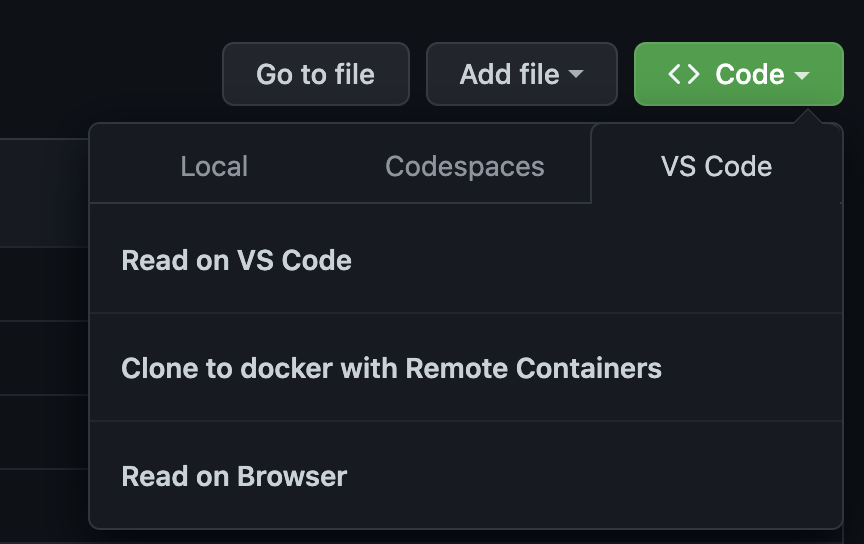
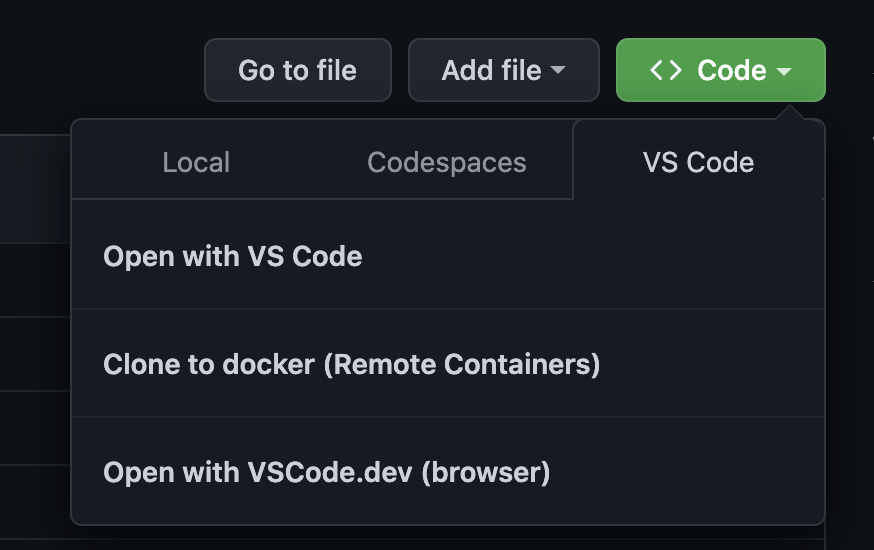
update button texts

diff --git a/open-with-vscode.js b/open-with-vscode.js
@@ -28,21 +28,21 @@ if (document.querySelector("#repo-content-pjax-container")) {
 					<a class="d-flex flex-items-center color-fg-default text-bold no-underline" rel="nofollow"
 						id="open_with_vscode_opt_1"
 						href="#">
-						Read on VS Code
+						Open with VS Code
 					</a>
 				</li>
 				<li class="Box-row Box-row--hover-gray p-3 mt-0">
 					<a class="d-flex flex-items-center color-fg-default text-bold no-underline" rel="nofollow"
 						id="open_with_vscode_opt_2"
 						href="#">
-						Clone to docker with Remote Containers
+						Clone to docker (Remote Containers)
 					</a>
 				</li>
 				<li class="Box-row Box-row--hover-gray p-3 mt-0">
 					<a class="d-flex flex-items-center color-fg-default text-bold no-underline" rel="nofollow"
 						id="open_with_vscode_opt_3"
 						href="#">
-						Read on Browser
+						Open with VSCode.dev (browser)
 					</a>
 				</li>
 			</ul>
